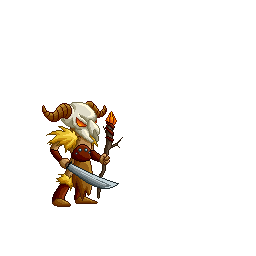
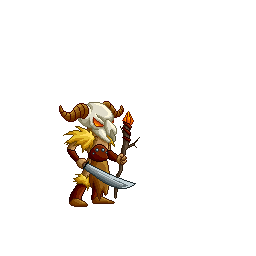
feat: let boss chase and attack

Changed region(s): [[0.1562, 0.375, 0.5312, 0.8125]]

diff --git a/js/entities/boss.js b/js/entities/boss.js
@@ -7,26 +7,30 @@ export default class Boss extends Enemy {
   constructor(x, y) {
     super(x, y, 256, 256);
     this.anchorY = 207;
-    this.anchorX = 82;
+    this.anchorX = 99;
     this.hitboxWidth = 60;
     this.hitboxHeight = 100;
     this.facingLeft = true;
-    this.setAnimation(
-      new SpriteAnimation(BOSS_PATH, "idle", 3, 0.3, { loopPause: 1 }),
-    );
-  }
-
-  update(delta) {
-    this.animate(delta);
-  }
-
-  attack() {}
-
-  isHitting() {
-    return true;
-  }
-
-  attackBox() {
-    return this.hitbox();
+    this.maxHealth = 240;
+    this.health = this.maxHealth;
+    this.speed = 60;
+    this.damage = 20;
+    this.hitFrame = 3;
+    this.attackReach = 120;
+    this.sightRange = 500;
+    this.stopDistance = 90;
+    this.attackCooldown = 2;
+    this.animations = {
+      idle: new SpriteAnimation(BOSS_PATH, "idle", 3, 0.3, { loopPause: 1 }),
+      walk: new SpriteAnimation(BOSS_PATH, "walk", 6, 0.15),
+      attack: new SpriteAnimation(BOSS_PATH, "attack", 7, 0.1, {
+        loop: false,
+      }),
+      hurt: new SpriteAnimation(BOSS_PATH, "hurt", 2, 0.1, { loop: false }),
+      death: new SpriteAnimation(BOSS_PATH, "death", 6, 0.15, {
+        loop: false,
+      }),
+    };
+    this.setAnimation(this.animations.idle);
   }
 }
